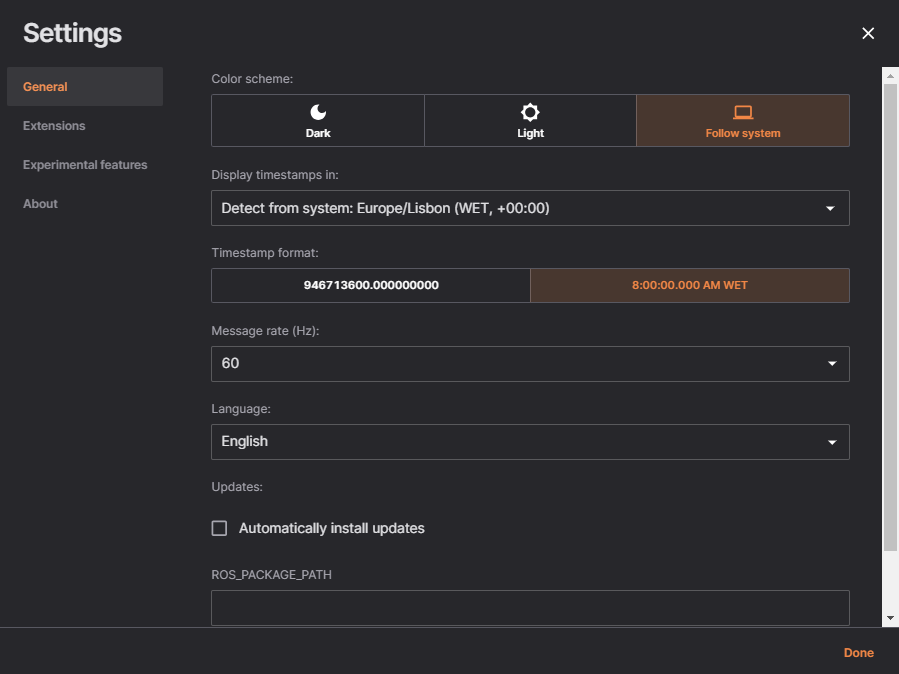
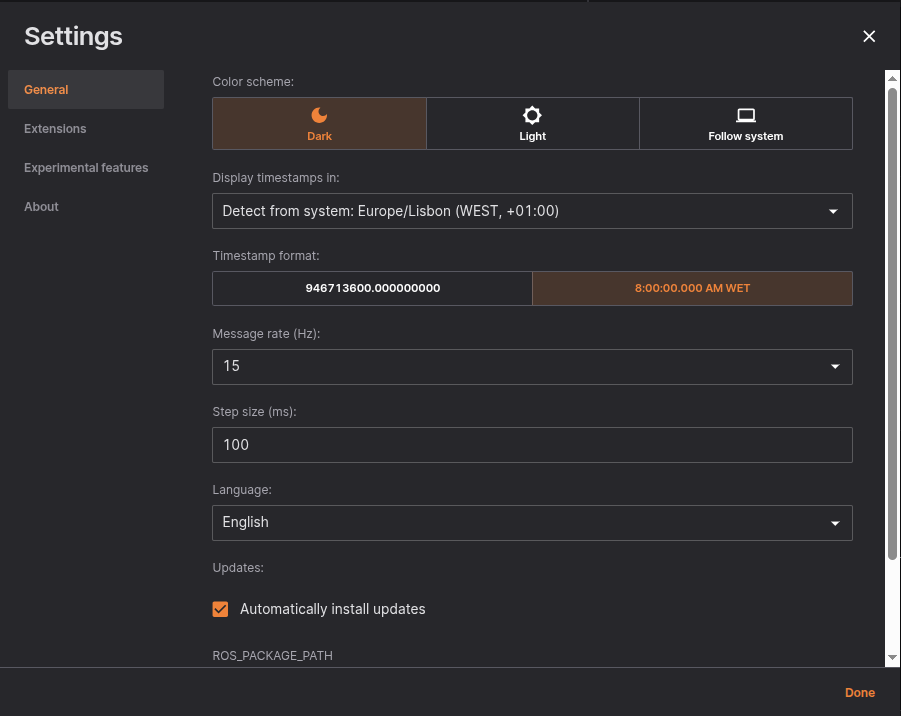
Update on settings and shortcuts docs (#44)
* update on settings and shortcuts docs

* updating settings description

diff --git a/src/settings.md b/src/settings.md
@@ -16,6 +16,7 @@ Here you can find the general settings that allows you to configure core prefere
 | Time zone | Dropdown menu to select the time zone for displaying timestamps. |
 | Timestamp format | Formatting options use to display timestamps (12-hour, seconds) |
 | Message rate | Controls the update rate of the message pipeline. Lowering this can reduce CPU/GPU usage and power consumption while keeping the UI smooth at 60 FPS. |
+| Step Size | Customize the default step size on the player (jump in time when clicking the arrow keys, [more info here](./visualization/shortcuts.md)). The default value is 100ms. |
 | Language | Menu to select the app's language |
 | Automatic updates | If selected allows the application to search and install updates (macOS and Windows only) |
 | [ROS_PACKAGE_PATH](https://wiki.ros.org/ROS/EnvironmentVariables#ROS_PACKAGE_PATH) | Paths to search for ROS packages (local file paths or package:// URLs); separate paths with standard OS path separator (e.g. ':' on Unix).  |

diff --git a/src/visualization/shortcuts.md b/src/visualization/shortcuts.md
@@ -8,16 +8,17 @@ Use keyboard shortcuts to efficiently navigate the Lichtblick visualization inte
 | Shortcut | Action |
 |----------|--------|
 | Space | Pause or play |
-| ← | Seek backward 100ms |
-| → | Seek forward 100ms |
+| ← | Seek backward 100ms* |
+| → | Seek forward 100ms* |
 | Shift ← | Seek backward 10ms |
 | Shift → | Seek forward 10ms |
 | Alt ← <br> ⌥← (macOS) | Seek backward 500ms |
 | Alt →  <br> ⌥→ (macOS)| Seek forward 500ms |
 
 
-
-
+***Note:**
+The basic seek forward and backward actions (using only the arrow keys) can be customized in the [Settings menu](../settings.md).
+It's also important to know that seek forward only works when the player is paused.
 
 ## General
 
